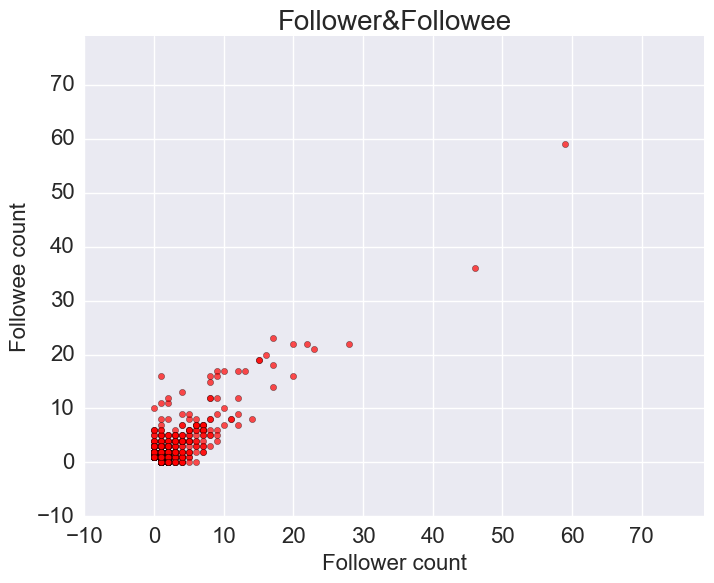
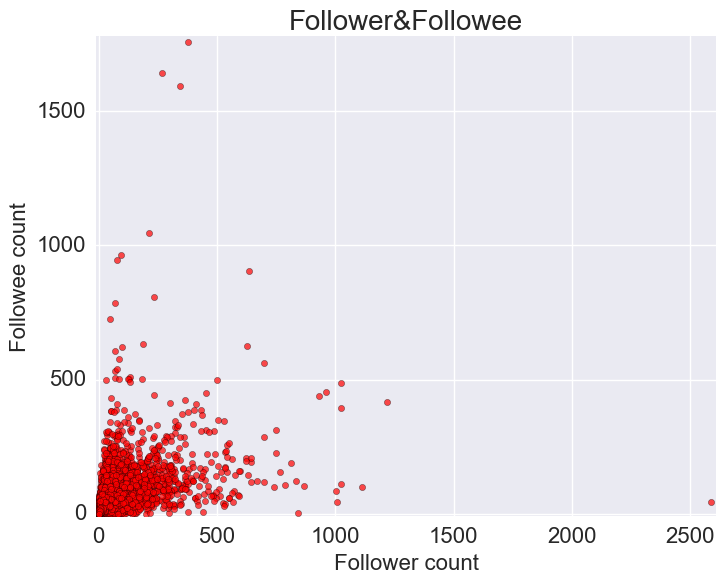
update README.md

diff --git a/visual/visualization/analysis.html b/visual/visualization/analysis.html
@@ -2,15 +2,15 @@
 <link rel='stylesheet' type='text/css' href='reportStyle.css'/></head>
 <body><div class='reportTitle'><div class='in'>Data Analysis</div></div>
 <div class='main'><div class='area1'>
-<div class='title'><h3>Data Files</h3></div><div class='text'>Rating Data: C:\Users\Yu\Desktop\RecQ\dataset\FilmTrust\ratings.txt<br>Social Data: C:\Users\Yu\Desktop\RecQ\dataset\FilmTrust\trust.txt</div></div><div style='padding-top:20px'><center><img src='images/header2.png'/></center></div>
+<div class='title'><h3>Data Files</h3></div><div class='text'>Rating Data: C:\Users\Yu\Desktop\RecQ\dataset\epinions\ratings.txt<br>Social Data: C:\Users\Yu\Desktop\RecQ\dataset\epinions\trusts.txt</div></div><div style='padding-top:20px'><center><img src='images/header2.png'/></center></div>
 <div class='area1'><div class='title'><h3>Rating Data</h3></div>
-<div class='text'>Rating Scale: 0.5 1.0 1.5 2.0 2.5 3.0 3.5 4.0</br>User Count: 1508<br>Item Count: 2071<br>Record Count: 35497<br>Global Mean: 3.11</div>
+<div class='text'>Rating Scale: 1.0 2.0 3.0 4.0 5.0</br>User Count: 40163<br>Item Count: 139738<br>Record Count: 664823<br>Global Mean: 4.034</div>
 <center><div class='img'><img src='images/rh.png' width='640px' height='480px'/></div></center>
 <center><div class='img'><img src='images/rcu.png' width='640px' height='480px'/></div></center>
 <center><div class='img'><img src='images/rci.png' width='640px' height='480px'/></div></center>
 </div><div style='padding-top:20px'><center><img src='images/header2.png'/></center></div>
 <div class='area1'><div class='title'><h3>Social Data</h3></div>
-<div class='text'>User Count: 874<br>Relation Count: 1853<br></div>
+<div class='text'>User Count: 49287<br>Relation Count: 487182<br></div>
 <center><div class='img'><img src='images/ff.png' width='640px' height='480px'/></div></center>
 <center><div class='img'><img src='images/fd1.png' width='640px' height='480px'/></div></center>
 <center><div class='img'><img src='images/fd2.png' width='640px' height='480px'/></div></center>

diff --git a/README.md b/README.md
@@ -1,4 +1,5 @@
-# RecQ #
+![RecQ](http://chuantu.biz/t5/43/1480095308x760008152.png)
+
 Released by School of Software Engineering, Chongqing University
 ##Introduction##
 **RecQ** is a Python library for recommender systems (Python 2.7.x). It implements a suit of state-of-the-art recommendations. To run RecQ easily (no need to setup packages used in RecQ one by one), the leading open data science platform  [**Anaconda**](https://www.continuum.io/downloads) is strongly recommended. It integrates Python interpreter, common scientific computing libraries (such as Numpy, Pandas, and Matplotlib), and package manager, all of them make it a perfect tool for data science researcher.
